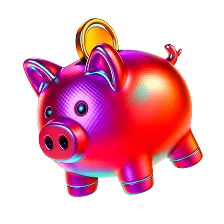
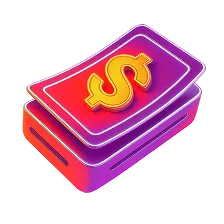
refactor: name prize types after the design, not after the asset files
The vocabularies had drifted: the same value drew different objects per brand,
so each brand carried aliases standing in for what it could not draw (cashback
-> cash in Vegas, cash -> cashback in Thor). A payload that read "cash" therefore
meant a piggy bank in one widget and a return arrow in the other, which is how a
card could advertise one thing while the player got another.

Values now name the entity, taken from the design: cash is banknotes, cashback is
money coming back. Both brands share one vocabulary — cash, cashback, coin,
free-spins — each drawing its own art for all four, so the backend never branches
per brand and no brand-local substitution is left.

Assets are renamed to match, which for Vegas means freeing cash.webp before
taking it: its old cash art is the piggy bank and moves to cashback.

bonus-money and coins stay accepted as aliases for cash and coin, so an
integration already sending the published names keeps working. A test now pins
the two vocabularies as identical — their drifting apart is what caused this.

Note for the rollout: cash is the one value whose artwork changes. Everything
else, aliases included, renders exactly what it did before.

diff --git a/tests/card-model.test.js b/tests/card-model.test.js
@@ -50,18 +50,26 @@ test('an unknown prize type falls back to the brand default', () => {
 });
 
 test('the shared contract values resolve on both brands', () => {
-  for (const prizeType of ['coin', 'bonus-money', 'free-spins']) {
+  for (const prizeType of ['cash', 'cashback', 'coin', 'free-spins']) {
     assert.equal(prizeTypeOf({ prizeType }, VEGAS_PRIZE), prizeType);
     assert.equal(prizeTypeOf({ prizeType }, THOR_PRIZE), prizeType);
   }
 });
 
-test('a value a brand has no art for lands on its nearest object', () => {
-  // Vegas draws no cashback, Thor draws no cash — each stands in with its own.
-  assert.equal(prizeTypeOf({ prizeType: 'cashback' }, VEGAS_PRIZE), 'cash');
-  assert.equal(prizeTypeOf({ prizeType: 'cash' }, THOR_PRIZE), 'cashback');
-  // `coins` is the plural Thor shipped before the vocabularies were aligned;
-  // both brands keep accepting it so a live integration does not break.
+test('the prize vocabulary is the same in every brand', () => {
+  // The whole point of the contract's §11: a brand draws its own art for the
+  // four values but never adds, drops or renames one. A brand-local value would
+  // put the backend back to branching per brand.
+  assert.deepEqual([...VEGAS_PRIZE.valid], [...THOR_PRIZE.valid]);
+  assert.equal(VEGAS_PRIZE.default, THOR_PRIZE.default);
+  assert.deepEqual({ ...VEGAS_PRIZE.aliases }, { ...THOR_PRIZE.aliases });
+});
+
+test('names the contract published earlier still resolve', () => {
+  // `bonus-money` was what banknotes were called, `coins` the plural Thor
+  // shipped — both stay accepted so a live integration does not break.
+  assert.equal(prizeTypeOf({ prizeType: 'bonus-money' }, VEGAS_PRIZE), 'cash');
+  assert.equal(prizeTypeOf({ prizeType: 'bonus-money' }, THOR_PRIZE), 'cash');
   assert.equal(prizeTypeOf({ prizeType: 'coins' }, VEGAS_PRIZE), 'coin');
   assert.equal(prizeTypeOf({ prizeType: 'coins' }, THOR_PRIZE), 'coin');
 });

diff --git a/lootbox-2/icons.js b/lootbox-2/icons.js
@@ -117,8 +117,8 @@ function posterOnly(entry) {
 
 /** 128px artwork for today's card: vivid, full-colour. */
 export const OBJECTS_LG = Object.freeze({
-  'bonus-money': `${BASE}/objects-lg/bonus-money.webp`,
-  cashback: `${BASE}/objects-lg/cashback.webp`,
+  cash: `${BASE}/objects-lg/cash.webp`, // banknotes with coins
+  cashback: `${BASE}/objects-lg/cashback.webp`, // banknotes with a return arrow
   coin: `${BASE}/objects-lg/coin.webp`,
   'free-spins': `${BASE}/objects-lg/free-spins.webp`,
   cookies: `${BASE}/objects-lg/cookies.webp`,
@@ -127,7 +127,7 @@ export const OBJECTS_LG = Object.freeze({
 
 /** 112px artwork for past days: the same objects, drawn smaller. */
 export const OBJECTS_SM = Object.freeze({
-  'bonus-money': `${BASE}/objects-sm/bonus-money.webp`,
+  cash: `${BASE}/objects-sm/cash.webp`,
   cashback: `${BASE}/objects-sm/cashback.webp`,
   coin: `${BASE}/objects-sm/coin.webp`,
   'free-spins': `${BASE}/objects-sm/free-spins.webp`,
@@ -138,7 +138,7 @@ export const OBJECTS_SM = Object.freeze({
 /** 112px desaturated artwork for a missed day. Separate art, not a CSS filter:
  * the designer greys the object out by hand so the neon rim survives. */
 export const MISSED_ART = Object.freeze({
-  'bonus-money': `${BASE}/missed/bonus-money.webp`,
+  cash: `${BASE}/missed/cash.webp`,
   cashback: `${BASE}/missed/cashback.webp`,
   coin: `${BASE}/missed/coin.webp`,
   'free-spins': `${BASE}/missed/free-spins.webp`,

diff --git a/lootbox-2/vocabulary.js b/lootbox-2/vocabulary.js
@@ -6,19 +6,17 @@
 import { CARD_STATE } from '../core/protocol.js';
 
 /**
- * Prize art vocabulary. The names are the ones in the integration contract
- * (§11), shared with every other brand — one Smartico payload feeds all of them.
+ * Prize art vocabulary. The four values are the contract's (§11) and are the
+ * same in every brand — each brand draws its own art for them, none adds or
+ * drops a value, so one Smartico payload feeds all of them unchanged.
  *
- * `aliases` covers the values Thor has no artwork of its own for: `cash` is a
- * separate prize in the contract, but Thor only draws cashback, so a cash payload
- * lands on the nearest object instead of the default. `coins` is the plural this
- * brand shipped before the vocabularies were aligned — kept so an integration
- * already sending it keeps working.
+ * `aliases` is pure legacy: both names were published before the vocabularies
+ * were aligned, so an integration already sending them keeps working.
  */
 export const PRIZE = Object.freeze({
-  valid: Object.freeze(['bonus-money', 'cashback', 'coin', 'free-spins']),
+  valid: Object.freeze(['cash', 'cashback', 'coin', 'free-spins']),
   default: 'coin',
-  aliases: Object.freeze({ cash: 'cashback', coins: 'coin' }),
+  aliases: Object.freeze({ 'bonus-money': 'cash', coins: 'coin' }),
 });
 
 export const DEFAULT_TITLES = Object.freeze({

diff --git a/lootbox-test/projects.js b/lootbox-test/projects.js
@@ -116,7 +116,7 @@ export const PROJECTS = Object.freeze({
       desktop: './assets/backgrounds/bg-desktop.png',
       mobile: './assets/backgrounds/bg-mobile.png',
     }),
-    prizeTypes: Object.freeze(['coin', 'cash', 'bonus-money', 'free-spins']),
+    prizeTypes: Object.freeze(['coin', 'cash', 'cashback', 'free-spins']),
     mockDefaults: Object.freeze({
       prize: Object.freeze({
         title: '20 CAD bonus',
@@ -137,7 +137,7 @@ export const PROJECTS = Object.freeze({
       'спалахом відкриває результат (конфетті лише для prize)',
     supports: Object.freeze({ subtitle: false, timer: false, tagOnHistory: true }),
     scenarios: scenarios({
-      win: 'bonus-money',
+      win: 'cash',
       winTitle: '20 CAD bonus',
       second: 'free-spins',
       secondTitle: '20 Free Spins',
@@ -156,7 +156,7 @@ export const PROJECTS = Object.freeze({
       desktop: './assets/backgrounds/thor-bg-desktop.webp',
       mobile: './assets/backgrounds/thor-bg-mobile.webp',
     }),
-    prizeTypes: Object.freeze(['coin', 'cashback', 'bonus-money', 'free-spins']),
+    prizeTypes: Object.freeze(['coin', 'cash', 'cashback', 'free-spins']),
     mockDefaults: Object.freeze({
       // No `tag`: Thor keeps an opened result to a bare date pill, so a status
       // badge sent here would be dropped by the widget anyway.

diff --git a/lootbox/vocabulary.js b/lootbox/vocabulary.js
@@ -15,13 +15,16 @@ export const CHAIN_STATES = Object.freeze([
   CARD_STATE.MISSED,
 ])
 
-/** Prize art vocabulary. `aliases` covers the contract values Vegas has no
- * artwork of its own for — `cashback` lands on the cash object — so one Smartico
- * payload feeds every brand without the backend branching per brand. */
+/** Prize art vocabulary. The four values are the contract's (§11) and are the
+ * same in every brand — each brand draws its own art for them, none adds or
+ * drops a value, so one Smartico payload feeds all of them unchanged.
+ *
+ * `aliases` is pure legacy: both names were published before the vocabularies
+ * were aligned, so an integration already sending them keeps working. */
 export const PRIZE = Object.freeze({
-  valid: Object.freeze(['bonus-money', 'cash', 'coin', 'free-spins']),
+  valid: Object.freeze(['cash', 'cashback', 'coin', 'free-spins']),
   default: 'coin',
-  aliases: Object.freeze({ cashback: 'cash', coins: 'coin' }),
+  aliases: Object.freeze({ 'bonus-money': 'cash', coins: 'coin' }),
 })
 
 export const DEFAULT_TITLES = Object.freeze({

diff --git a/core/card-model.js b/core/card-model.js
@@ -37,11 +37,11 @@ export function hasCta(card) {
 /**
  * Resolves `card.prizeType` against a brand's vocabulary.
  *
- * The contract has one prize vocabulary for every brand (INTEGRATION.md §11),
- * but a brand only draws part of it: Vegas has no cashback object, Thor has no
- * cash one. `aliases` is where a brand says which of its own objects stands in
- * for a value it cannot draw, so one Smartico payload feeds every brand and an
- * unknown value still lands on something closer than the default.
+ * The contract has one prize vocabulary for every brand (INTEGRATION.md §11) and
+ * every brand draws all of it, so this resolves to the same value everywhere.
+ * `aliases` maps names the contract published earlier onto their current ones,
+ * which keeps an older integration working; anything else falls back to the
+ * brand's default rather than rendering an empty slot.
  *
  * @param {{ prizeType?: string }} card
  * @param {{ valid: readonly string[], default: string, aliases?: Record<string, string> }} prize

diff --git a/lootbox/icons.js b/lootbox/icons.js
@@ -29,16 +29,16 @@ export const OBJECTS = Object.freeze({
 
 /** Prize art keyed by prize type (colorful, "won" variant). */
 export const PRIZE_ART = Object.freeze({
-  'bonus-money': `${BASE}/prizes/bonus-money.webp`,
-  cash: `${BASE}/prizes/cash.webp`,
+  cash: `${BASE}/prizes/cash.webp`, // banknotes
+  cashback: `${BASE}/prizes/cashback.webp`, // piggy bank
   coin: `${BASE}/prizes/coin.webp`,
   'free-spins': `${BASE}/prizes/free-spins.webp`,
 });
 
 /** Missed-day art keyed by prize type (prize embedded in a disco ball). */
 export const MISSED_ART = Object.freeze({
-  'bonus-money': `${BASE}/missed/bonus-money.webp`,
   cash: `${BASE}/missed/cash.webp`,
+  cashback: `${BASE}/missed/cashback.webp`,
   coin: `${BASE}/missed/coin.webp`,
   'free-spins': `${BASE}/missed/free-spins.webp`,
 });

diff --git a/lootbox-test/index.html b/lootbox-test/index.html
@@ -965,7 +965,7 @@
                 <select id="mock-prize-type">
                   <option value="coin">coin</option>
                   <option value="cash">cash</option>
-                  <option value="bonus-money">bonus-money</option>
+                  <option value="cashback">cashback</option>
                   <option value="free-spins">free-spins</option>
                 </select>
               </div>
